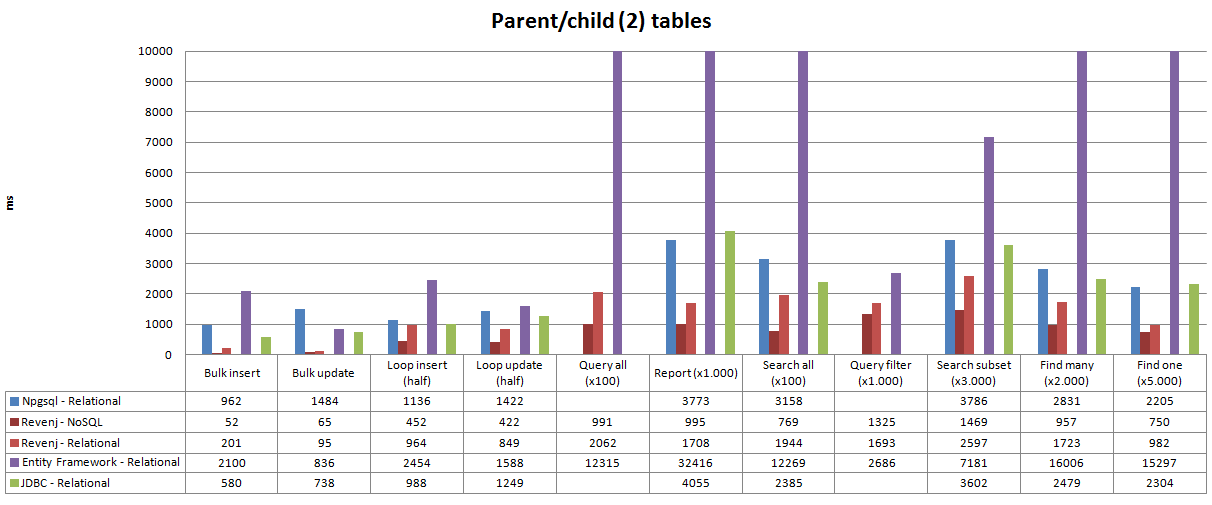
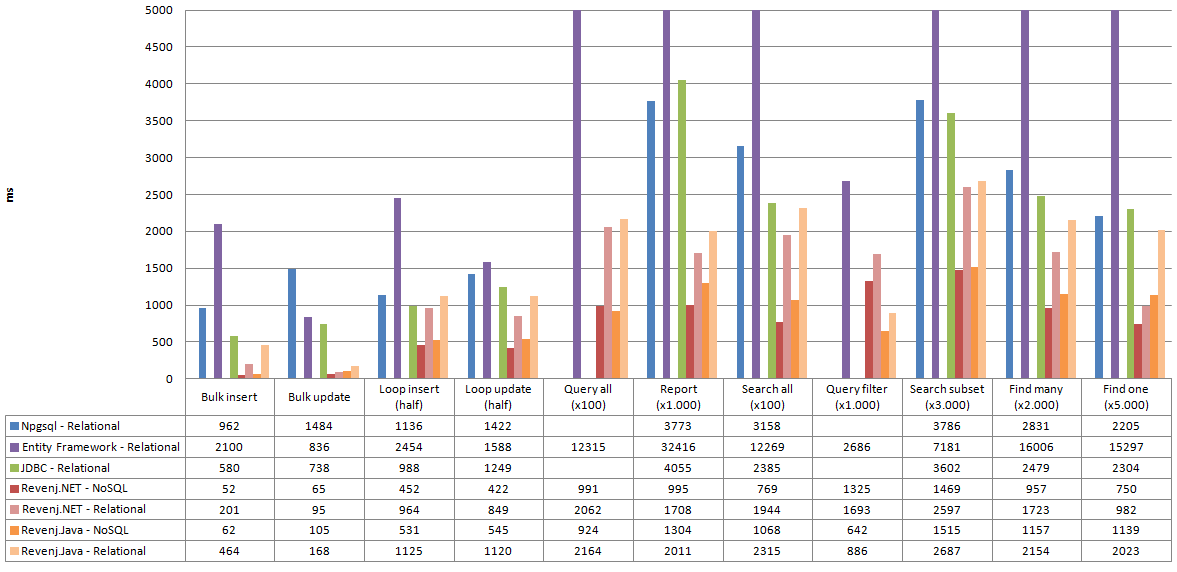
Bench picture update.
Include Revenj.Java in results.

Changed region(s): [[0.0, 0.0, 1.0, 1.0], [0.0, 0.3861, 0.0306, 0.4158], [0.0, 0.3267, 0.0306, 0.3564]]

diff --git a/README.md b/README.md
@@ -105,7 +105,7 @@ Revenj is basically only a thin access layer to the domain captured in the DSL.
 
 Some of the features/approaches available in the framework or precompiled library and just exposed through the framework:
 
- * advanced LINQ/JINQ driver - no impedance mismatch between database objects and .NET classes
+ * advanced LINQ/JINQ driver - no impedance mismatch between database objects and .NET/JVM classes
  * event sourcing - capture events in the system. Bulk process events. Replay events to reconstruct aggregate roots
  * notification infrastructure - integrate with SignalR for push notification or invalidate cache to keep data up-to-date
  * plugin based architecture - almost everything is a plugin, from REST commands to LINQ/JINQ converters
